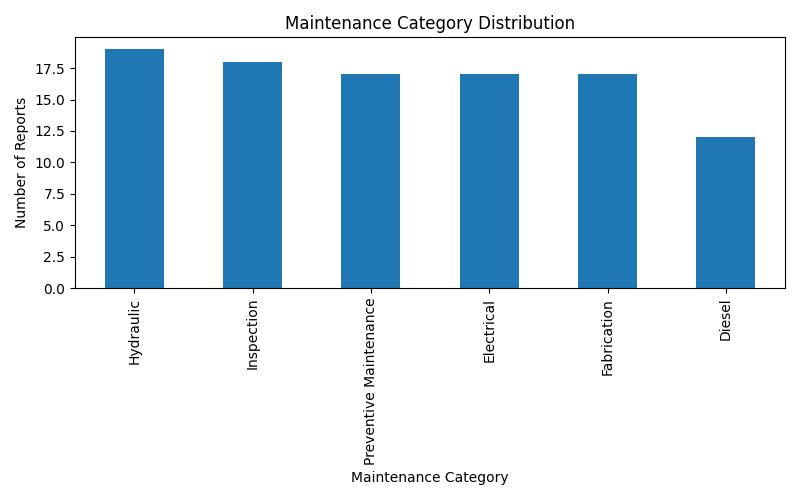
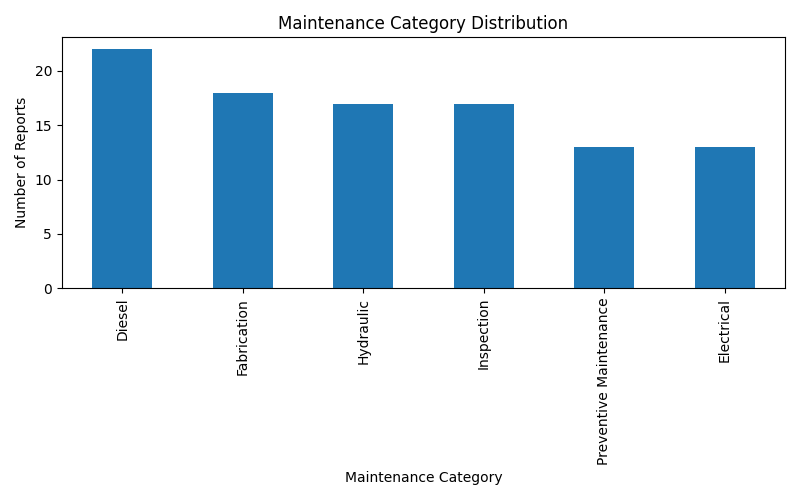
feat(analytics): add monthly and equipment workload analysis

diff --git a/src/analytics/maintenance_operations_profiler.py b/src/analytics/maintenance_operations_profiler.py
@@ -8,6 +8,9 @@ class MaintenanceOperationsProfiler:
 
         self.df = pd.read_csv(data_path)
 
+        self.df["report_date"] = pd.to_datetime(
+        self.df["report_date"]
+        )
         Path("figures").mkdir(exist_ok=True)
         
     def dataset_summary(self):
@@ -70,6 +73,72 @@ class MaintenanceOperationsProfiler:
 	    )
 
 	    plt.close()
+    def monthly_report_analysis(self):
+
+        print("\nMONTHLY REPORT VOLUME")
+        print("-" * 60)
+
+        monthly_counts = (
+            self.df
+            .set_index("report_date")
+            .resample("M")
+            .size()
+        )
+
+        print(monthly_counts)
+
+        plt.figure(figsize=(10, 5))
+
+        monthly_counts.plot(
+            kind="line",
+            marker="o",
+        )
+
+        plt.title("Monthly Maintenance Report Volume")
+        plt.xlabel("Month")
+        plt.ylabel("Number of Reports")
+        plt.grid(True)
+        plt.tight_layout()
+
+        plt.savefig(
+            "figures/monthly_report_volume.png"
+        )
+
+        plt.close()
+    def equipment_workload_analysis(self):
+
+        print("\nEQUIPMENT WORKLOAD ANALYSIS")
+        print("-" * 60)
+
+        equipment_summary = (
+            self.df.groupby("equipment_name")
+            .agg(
+                report_count=("report_id", "count"),
+                total_downtime=("downtime_hours", "sum"),
+                total_repair_cost=("repair_cost", "sum"),
+            )
+            .sort_values("report_count", ascending=False)
+        )
+
+        print(equipment_summary.round(2))
+
+        plt.figure(figsize=(10, 5))
+
+        equipment_summary["report_count"].plot(
+            kind="bar"
+        )
+
+        plt.title("Maintenance Reports by Equipment")
+        plt.xlabel("Equipment")
+        plt.ylabel("Number of Reports")
+        plt.xticks(rotation=45, ha="right")
+        plt.tight_layout()
+
+        plt.savefig(
+            "figures/equipment_maintenance_workload.png"
+        )
+
+        plt.close()
 
 if __name__ == "__main__":
 
@@ -84,3 +153,5 @@ if __name__ == "__main__":
     profiler.duplicate_report_analysis()
 
     profiler.maintenance_category_analysis()
+    profiler.monthly_report_analysis()
+    profiler.equipment_workload_analysis()
